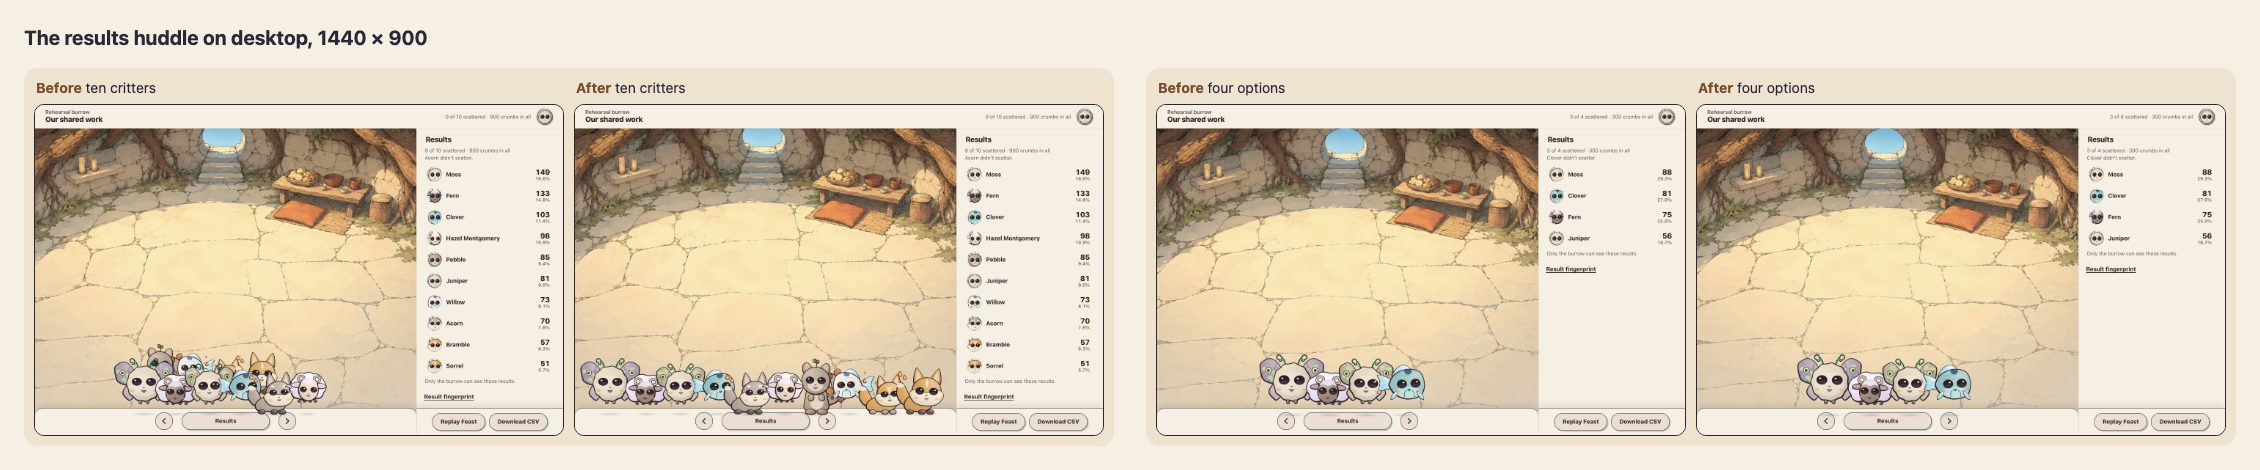
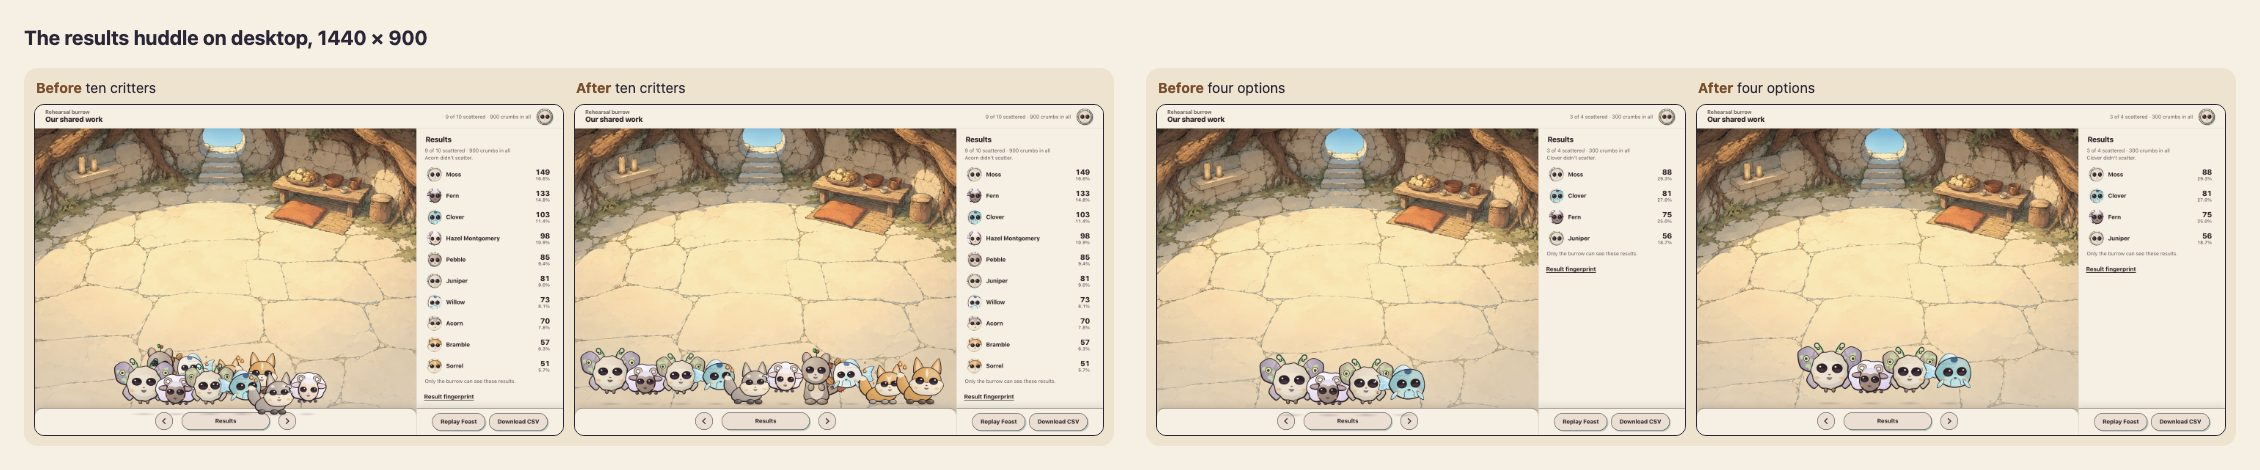
docs: the visual polish notes with #57 folded in
The desktop huddle now stands on the bar, as #57 has it; refreshed
desktop huddle captures and sheet.

Changed region(s): [[0.2478, 0.7447, 0.4336, 0.8936], [0.7743, 0.7149, 0.8982, 0.8638]]

diff --git a/docs/reviews/visual-polish-2026-10-16/README.md b/docs/reviews/visual-polish-2026-10-16/README.md
@@ -6,7 +6,7 @@ This batch addresses four items from the Garden Spirits polish list that a recor
 |---|---|
 | `27565be` | A phone's back row never draws narrower than a 56 px stage. |
 | `715381a`, `e678ba5` | Each name tag stays beside the critter it names, clear of its neighbours wherever it can be. |
-| `91b9209` | The results huddle shows each critter as the feast grew it. |
+| `91b9209`, `8d2622a` | The results huddle shows each critter as the feast grew it, standing on the desktop bar as #57 has it. |
 | `7879b26` | The dark look grades critters with the room and stands each in a pool of lamplight. |
 
 The before and after captures come from the same local stack and the same fixture states, with the same critters and the same results. `/dev/screens` gives the game states. Captures use reduced motion so frames are comparable, and Garden Spirits (`?critters=garden`) unless a caption says version 2.
@@ -42,7 +42,7 @@ The huddle spaced every critter by one fixed step, about half a drawing. The fea
 
 Each critter is now spaced by the width the feast grew it to, and neighbours overlap by no more than 18% of their width. The group stands in one row whenever everyone fits at full size, as all ten do on desktop and up to eight on a phone. Otherwise the back row stands far enough back that its faces show. On a phone, a small group grows into the room it has, up to 1.3 times.
 
-The burrow's own order is kept; the huddle is never ranked (Game Design G3: the results list carries the ranking). Growth stays the spec's compressed range, so an even split still looks even, as the four-option fixture shows.
+On desktop the huddle stands on the folded dock's bar, so no portrait covers Previous, Results or Next. That rule is #57's, carried into this code when #57 was merged into this branch (`8d2622a`). The burrow's own order is kept; the huddle is never ranked (Game Design G3: the results list carries the ranking). Growth stays the spec's compressed range, so an even split still looks even, as the four-option fixture shows.
 
 ## Dark grading
 
